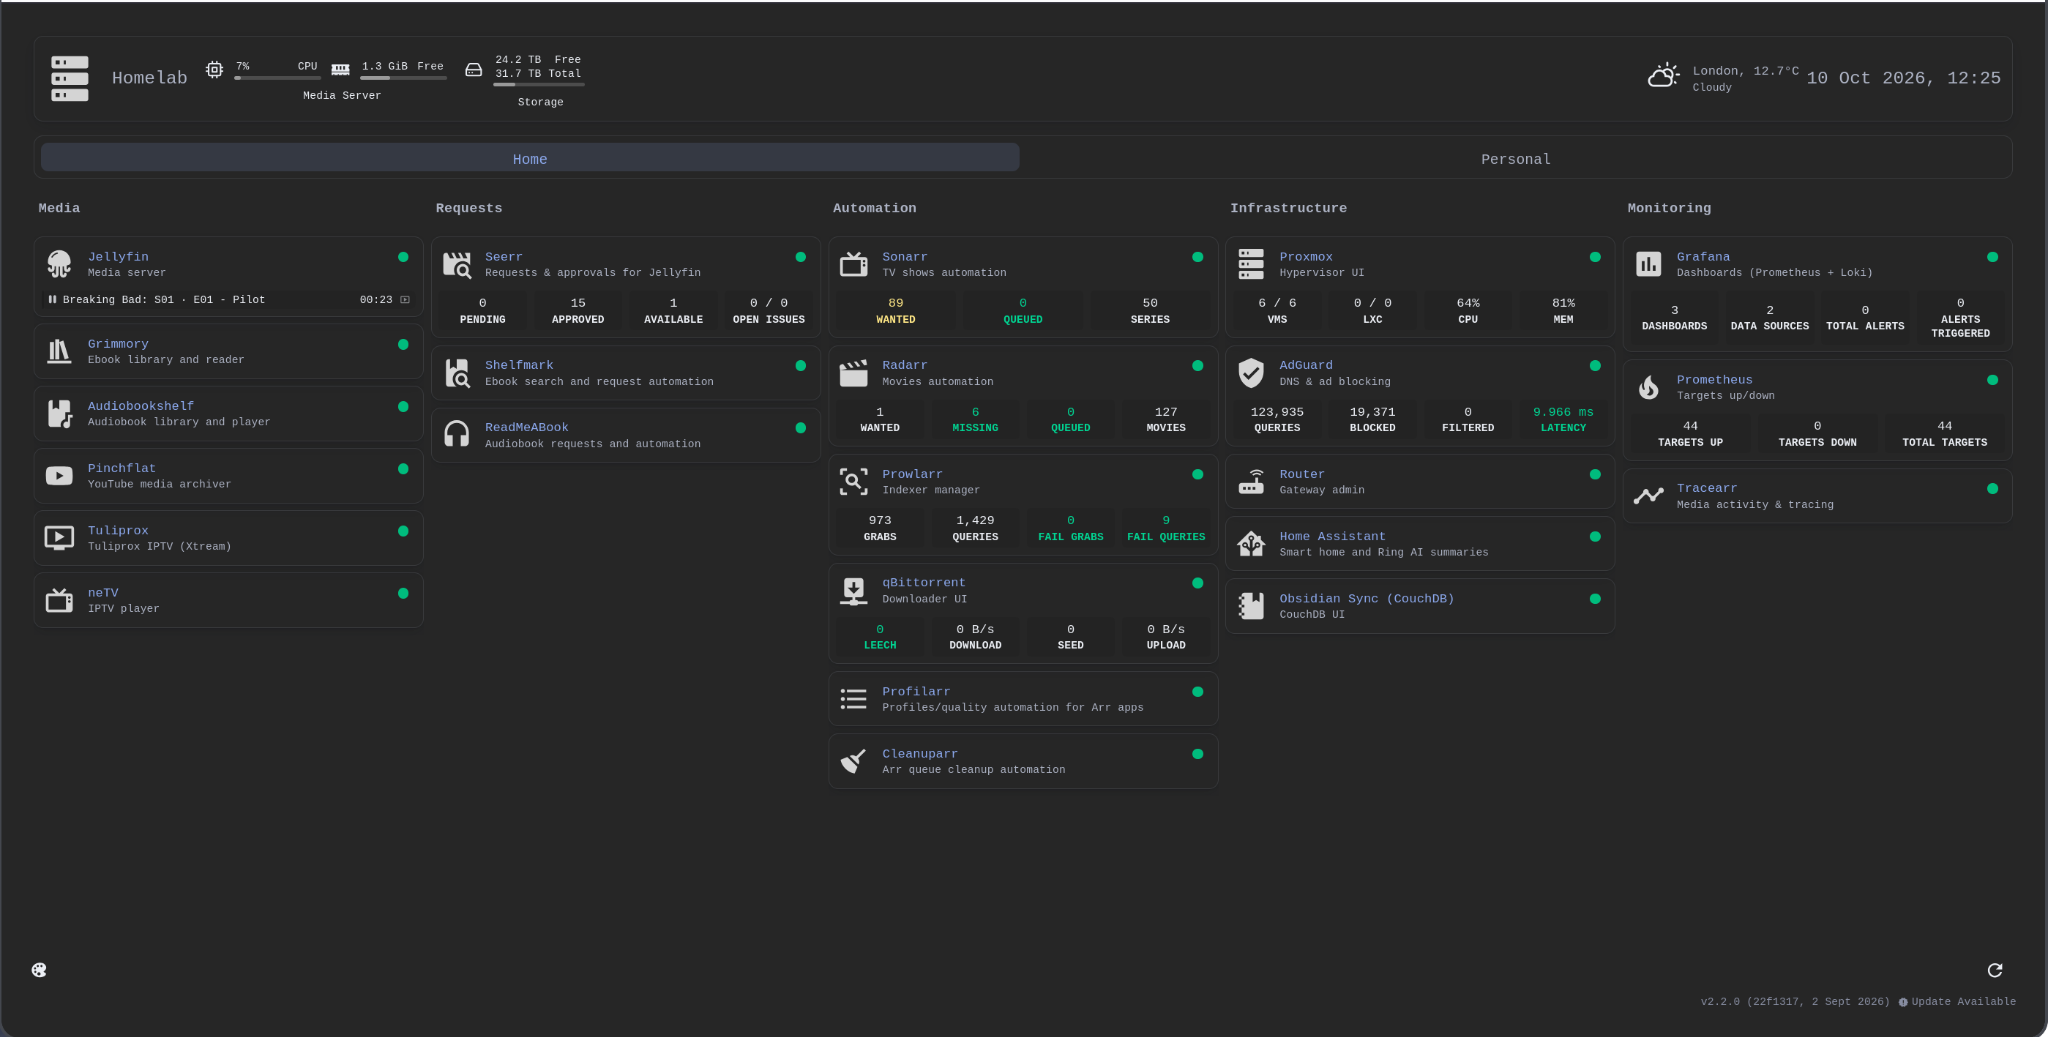
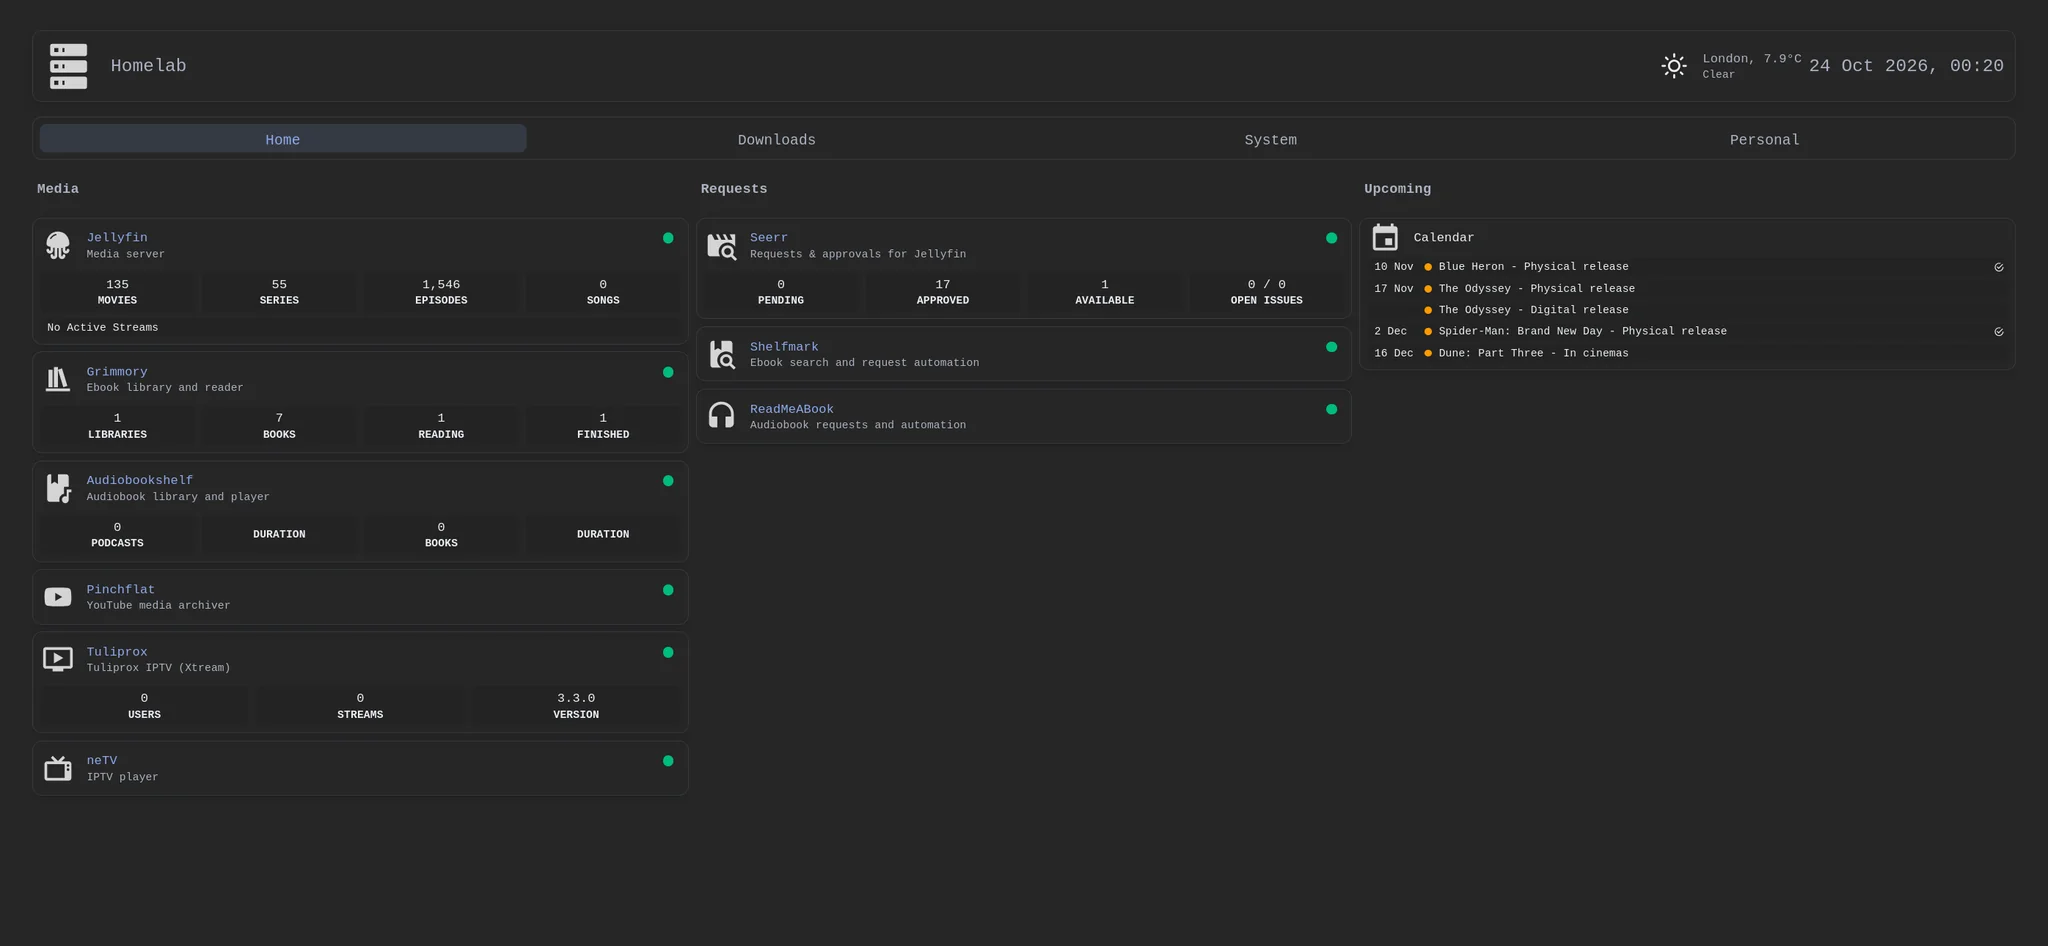
docs(readme): refresh Homepage screenshot and architecture diagram

diff --git a/README.md b/README.md
@@ -4,7 +4,7 @@
 
 Eight role-based NixOS VMs run networking, media, storage, home automation, personal applications, observability, CI and releases. Host configuration lives in a single Nix flake, with Podman and native NixOS services, sops-nix for secrets and Renovate for dependency updates.
 
-![Homepage dashboard showing self-hosted services and status widgets](docs/assets/homepage.webp)
+![Homepage dashboard showing media, requests and upcoming releases](docs/assets/homepage.webp)
 
 ## Architecture
 
